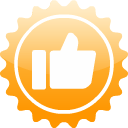
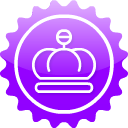
Implement Badges react component, change coutes to pass info to it Add new category king badge

diff --git a/app/assets/stylesheets/application.css.scss b/app/assets/stylesheets/application.css.scss
@@ -402,6 +402,12 @@ body{
 }
 /*----------------------------------------------*/
 
+/*----------------------BADGES -------------------*/
+.badge{
+  width: 50px;
+}
+/*----------------------------------------------*/
+
 
 
 

diff --git a/app/controllers/users_controller.rb b/app/controllers/users_controller.rb
@@ -2,11 +2,14 @@ class UsersController < ApplicationController
 
   def show
     @user = User.find_by(id: params[:id])
+    @badges = @user.badge_collection
 
     @same_user = false
 
-    if @user.id == current_user.id
-      @same_user = true
+    if user_signed_in?
+      if @user.id == current_user.id
+        @same_user = true
+      end
     end
 
     @issues = @user.issues.map { |issue| issue.package_info}
